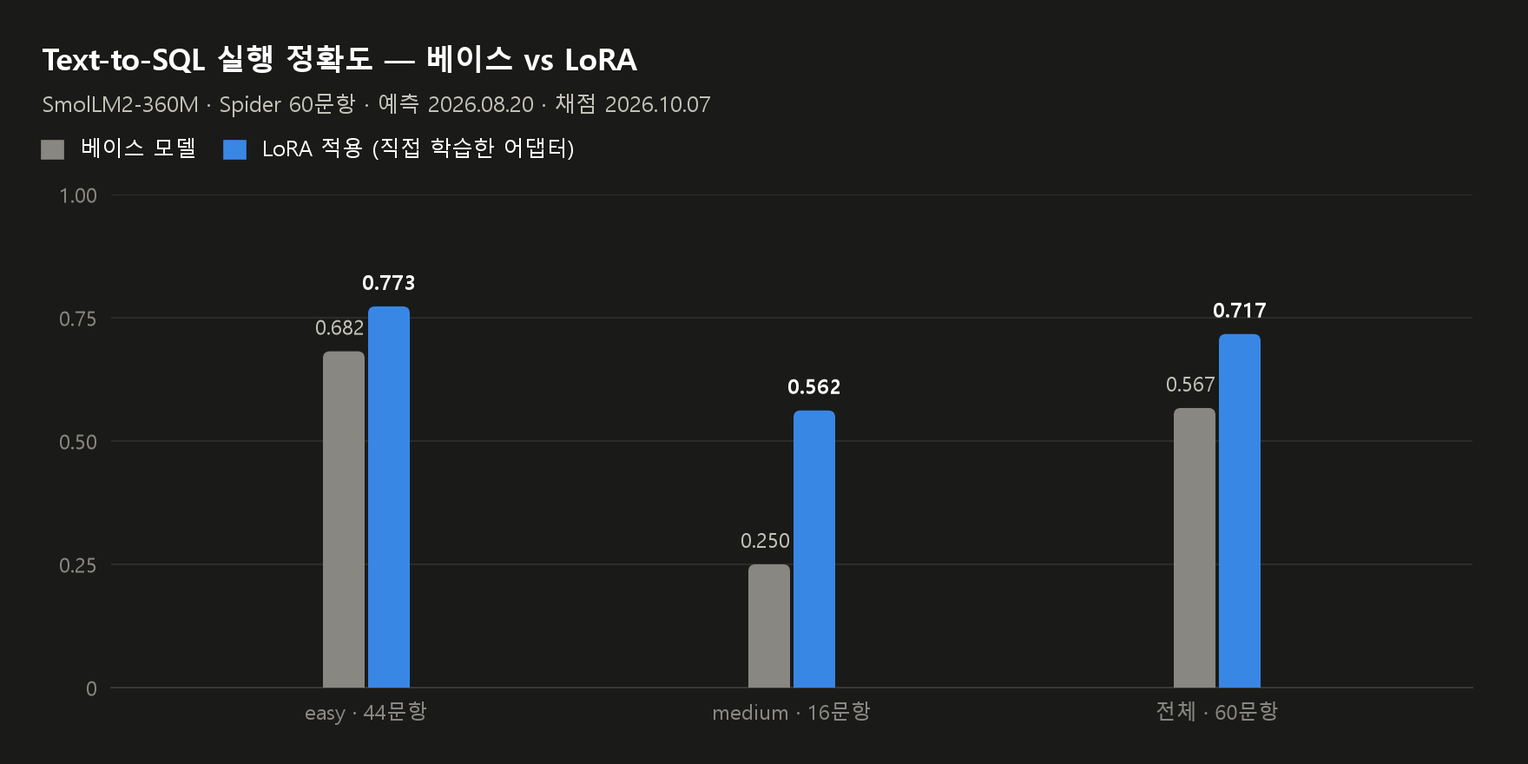
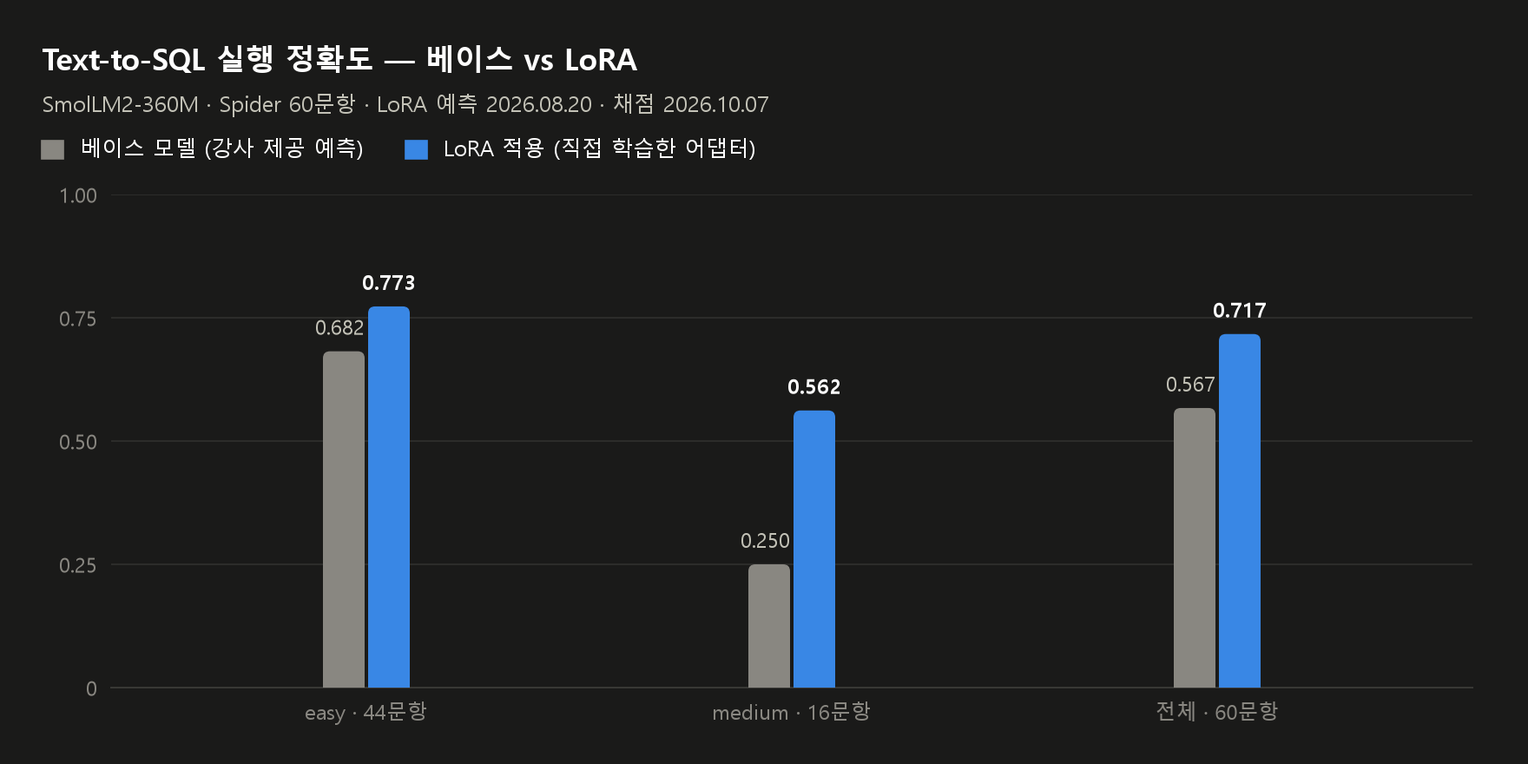
AI 실습 포트폴리오: 1차 검토 반영 — 제 몫 · 숫자 · 표현 바로잡기
- 제 몫: 스토리북 주인공 고정 장치는 기준 앱 몫으로 정정, vLLM 벤치마크의 HF 쪽은
  베이스 모델임을 밝힘, 베이스 예측은 강사 제공 파일임을 표와 차트에 표시
- 숫자: GPU 메모리 MiB 단위, 1회차 98초, MCP 도구 11개, test-suite DB 28개 내역,
  재측정 12.5배 병기, 한눈에 보기에서 조건이 다른 배수(10.7배) 제외
- 제출본: 어댑터는 4. skeleton04에 있고 빠진 것은 예측 · 평가 DB · 로그로 정정
- 구성: 제출본 · 작업 사본 정의, 용어 상자, 돌아보며에 잘한 점 추가 · 순서 정리,
  실행하지 않은 동작은 '구조였다'로

Changed region(s): [[0.125, 0.1841, 0.5, 0.2148], [0.25, 0.1227, 0.5, 0.1534]]

diff --git a/scripts/make_ai_charts.py b/scripts/make_ai_charts.py
@@ -119,8 +119,8 @@ def save(fig, t_name, name):
 def chart_accuracy(t_name):
     t = THEMES[t_name]
     fig, ax = frame(t, "Text-to-SQL 실행 정확도 — 베이스 vs LoRA",
-                    "SmolLM2-360M · Spider 60문항 · 예측 2026.08.20 · 채점 2026.10.07",
-                    [(t["neutral"], "베이스 모델", "bar"), (t["s1"], "LoRA 적용 (직접 학습한 어댑터)", "bar")],
+                    "SmolLM2-360M · Spider 60문항 · LoRA 예측 2026.08.20 · 채점 2026.10.07",
+                    [(t["neutral"], "베이스 모델 (강사 제공 예측)", "bar"), (t["s1"], "LoRA 적용 (직접 학습한 어댑터)", "bar")],
                     right_px=32)
     ax.set_xlim(-0.6, 2.6)
     ax.set_ylim(0, 1.0)

diff --git a/AI_PORTFOLIO.md b/AI_PORTFOLIO.md
@@ -3,7 +3,7 @@
 # 🧪 한동인 · AI 실습 포트폴리오
 
 **삼성청년SW·AI아카데미(SSAFY) 15기 AI 실습 기록**<br/>
-<sub>7월 AI 서비스 실습(앱 3종 · MLOps) · 8월 AI 특화 LLM 실습(라벨 생성 · LoRA · QLoRA · vLLM)</sub>
+<sub>개인 실습 · 7월 AI 서비스 실습(앱 3종 · MLOps) · 8월 AI 특화 LLM 실습(라벨 생성 · LoRA · QLoRA · vLLM)</sub>
 
 <a href="./README.md">← 메인 포트폴리오(프론트엔드)</a> · <a href="#user-content-glance">한눈에 보기</a> · <a href="#user-content-july">7월</a> · <a href="#user-content-august">8월</a> · <a href="#user-content-retro">돌아보며</a>
 
@@ -11,13 +11,14 @@
 
 <br/>
 
-프로젝트에서 AI 파트와 API 계약을 맞추며 일해 온 프론트엔드 개발자가, **모델을 직접 붙이고 · 학습하고 · 채점하고 · 서빙해 본** 기록입니다.
+프로젝트에서 AI 기능을 화면에 붙여 온 프론트엔드 개발자가, **모델을 직접 붙이고, 학습하고, 채점하고, 서빙해 본** 기록입니다.
 
 > **📖 읽는 법**
 > - 모든 실습은 강사가 준 **스켈레톤 위에서** 했습니다. 스켈레톤은 빈칸이 있는 코드가 아니라, 그대로 실행되는 기준 앱과 참고 노트북이었습니다.
-> - **7월 앱 3종**은 기준 앱 위에 확장 과제를 직접 구현했습니다. **8월 노트북**은 코드를 거의 바꾸지 않고, 제 GPU(RTX 4050 Laptop 6 GB)에서 직접 학습 · 추론 · 평가를 돌리고 노트북 밖으로 이어 붙였습니다.
+> - **7월 앱 3종**에서는 기준 앱 위에 확장 과제를 직접 구현했습니다. **8월 노트북**에서는 코드를 거의 바꾸지 않고 제 GPU(RTX 4050 Laptop 6 GB)에서 학습 · 추론 · 평가를 돌렸고, 학습한 어댑터를 다음 실습으로 가져가거나 실패한 셀을 별도 스크립트로 옮겨 이어 갔습니다.
 > - 기능마다 **제 몫과 제공받은 몫을 나눠** 적었습니다.
-> - 숫자는 **제 실행 기록**(노트북 출력 · 체크포인트 · 로그 · MLflow DB)에서만 가져왔습니다. 끝난 뒤 다시 잰 값에는 날짜를 붙였습니다.
+> - 숫자는 **제 실행 기록**(노트북 출력 · 체크포인트 · 로그 · MLflow DB · git 이력)에서만 가져왔습니다. 끝난 뒤 다시 잰 값에는 날짜를 붙였습니다.
+> - **제출본**은 SSAFY GitLab에 낸 저장소이고, **작업 사본**은 제 PC에서 실제로 돌린 폴더입니다. 8월 숫자의 근거 대부분(예측 파일 · 실행 로그 · 제 노트북 출력)은 작업 사본에만 남아 있습니다.
 > - 저장소는 SSAFY GitLab 비공개이며, 요청하시면 공개합니다.
 
 <br/>
@@ -26,18 +27,18 @@
 
 ## 🗂 한눈에 보기
 
-| 실습 | 기간 | 제 몫 | 근거가 된 숫자 |
+| 실습 | 기간 | 제 몫 | 근거 |
 |---|---|---|---|
-| 📄 **AI 문서 아카이브** | 2026.07.06 – 07.08 | OCR 전처리 · 형태소 키워드 · **사진 분기**(EXIF · GPS · YOLO · 지도) 구현 | 기준 앱 대비 +611 / −318줄 |
-| 📚 **AI 스토리북** | 2026.07.06 – 07.08 | **문단 단위 편집**과 고친 문단만 다시 그리기, 주인공 일관성 프롬프트 | 기준 앱 대비 +383 / −221줄 |
+| 📄 **AI 문서 아카이브** | 2026.07.06 – 07.09 | OCR 전처리 · 형태소 키워드 · **사진 분기**(EXIF · GPS · YOLO · 지도) 구현 | 기준 앱 대비 +611 / −318줄 |
+| 📚 **AI 스토리북** | 2026.07.06 – 07.08 | **문단 단위 편집**과 고친 문단만 다시 그리기, 우주 SF 테마 전환 | 기준 앱 대비 +383 / −221줄 |
 | 🛍 **AI 쇼핑 어시스턴트** | 2026.07.06 – 07.08 | 옷 **색상 인식** · 자연어 **예산 필터** · **CLIP 이미지 유사 검색** | 기준 앱 대비 +635 / −276줄 |
 | ⚙ **MLOps** | 2026.07.09 – 07.10 | MLflow 추적 서버로 학습 → 추적 → 레지스트리 등록 실행(코드 변경 없음) | epoch loss **0.19 → 0.045** · 2회 실행 |
 | 🏷 **LLM 라벨 생성 · Judge** | 2026.08.19 | Teacher LLM으로 SQL 라벨 생성, LLM-as-a-Judge 채점, JSON 파서 보강 | Judge 평균 **4.6점** · 실제 스키마와 맞는 쿼리 **4 / 10** |
 | 🎯 **LoRA Text-to-SQL** | 2026.08.19 – 08.20 | 360M 모델 LoRA 학습, 평가 DB 구성, 추론 | 실행 정확도 **0.567 → 0.717** |
-| 🧊 **QLoRA** | 2026.08.19 | 1.7B 모델을 4bit로 6 GB GPU에서 학습 | 학습 **373초** · VRAM **5.9 / 6.1 GB** |
-| 🚀 **vLLM 서빙** | 2026.08.19 | **직접 학습한 어댑터**를 vLLM에 올리고, 어댑터에서 base 모델을 고르는 실행 스크립트 작성 | 생성 처리량 **10.7배** <sub>(비교 조건 주의)</sub> |
+| 🧊 **QLoRA** | 2026.08.19 | 1.7B 모델을 4bit로 6 GB GPU에서 학습 | 학습 **373초** · GPU 메모리 **5,915 / 6,141 MiB** <sub>(장치 전체)</sub> |
+| 🚀 **vLLM 서빙** | 2026.08.19 | **직접 학습한 어댑터**를 vLLM에 올리고, 어댑터에서 베이스 모델을 고르는 실행 스크립트 작성 | Runtime LoRA · Merged **두 방식**으로 서빙 |
 
-<sub>줄 수는 git diff 기준이며, 지운 줄에는 주석 · 디버그 출력 정리가 섞여 있습니다. 같은 주에 받은 MCP 서버 스켈레톤(FastMCP · 메모/할 일 도구 10개)은 실행 기록이 남지 않아 본문에서 뺐습니다.</sub>
+<sub>줄 수는 각 앱 `app.py`의 git diff 기준이며, 더한 줄과 지운 줄 모두 빈 줄 · 주석이 섞여 있습니다(빈 줄 · 공백 변경을 빼면 +553 / +340 / +528줄). 같은 주에 받은 MCP 서버 스켈레톤(FastMCP · 메모 · 할 일 · 통계 도구 11개)은 코드를 바꾸지도, 실행하지도 않아 본문에서 뺐습니다.</sub>
 
 <br/>
 
@@ -47,7 +48,7 @@
 
 ## 🗓 7월 — AI 서비스 실습 <sub>2026.07.06 – 07.10</sub>
 
-기준 앱은 문서 · 이미지 · 텍스트 모델을 붙여 둔 **완성형 앱**이었고, 과제는 그 위에 기능을 더하는 것이었습니다. 앱마다 커밋이 하나뿐이라 중간 과정은 이력에 남지 않았고, **실행 화면 · DB · 결과물도 남기지 않았습니다**(→ [돌아보며](#user-content-retro)). 그래서 아래는 실행 결과가 아니라 **무엇을 왜 그렇게 만들었는지**를 코드로 보여 드립니다.
+기준 앱은 문서 · 이미지 · 텍스트 모델을 붙여 둔 **완성형 앱**이었고, 과제는 그 위에 기능을 더하는 것이었습니다. 앱마다 사실상 한 번에 몰아 커밋해 중간 과정은 이력에 남지 않았고, **실행 화면 · DB · 결과물도 남기지 않았습니다**(→ [돌아보며](#user-content-retro)). 그래서 아래는 실행 결과가 아니라 **무엇을 왜 그렇게 만들었는지**를 코드로 보여 드립니다.
 
 <sub>코드는 저장소에서 발췌해 간추렸고, 주석 일부는 설명을 위해 붙였습니다.</sub>
 
@@ -71,19 +72,20 @@ flowchart LR
   DOC --> DE["본문 + 요약을<br/>임베딩"]
   PE --> DB[("SQLite<br/>위도 · 경도 컬럼")]
   DE --> DB
-  DB --> S["의미 검색 · 키워드 검색<br/>사진 지도 탭"]
+  DB --> S["의미 검색 · 키워드 검색"]
+  DB --> MAP["사진 지도 탭"]
   classDef mine fill:#8250DF14,stroke:#8250DF,stroke-width:2px
-  class PRE,Q,PH,PE,S mine
+  class PRE,Q,PH,PE,MAP mine
 ```
 
-<sub>보라 테두리가 제가 더한 부분입니다. 분류 · OCR · LayoutLMv3 · Donut · 요약 · 임베딩 · 검색의 뼈대는 기준 앱에 있었습니다.</sub>
+<sub>보라 테두리가 제가 더한 부분입니다. 위도 · 경도 컬럼과 형태소 키워드도 제가 더했고, 분류 · OCR · LayoutLMv3 · Donut · 요약 · 임베딩 · 검색의 뼈대는 기준 앱에 있었습니다.</sub>
 
 **제가 만든 것**
 - **사진 분기** — EXIF에 카메라 · 촬영일 · GPS가 있거나 OCR 글자가 10자 미만이면 사진으로 보고, 문서용 모델(LayoutLMv3 · Donut · KoBART)을 건너뜁니다. 대신 EXIF · YOLOv8n 객체 · GPS 역지오코딩 주소로 **요약과 키워드를 만들어 그것을 임베딩**합니다. 사진에는 OCR 본문이 없으니, 이렇게 해야 사진도 의미 검색에 걸립니다.
 - **위치를 데이터로** — GPS를 도분초에서 십진수로 바꿔 DB의 위도 · 경도 컬럼에 저장하고, 저장된 사진을 지도 한 장에 모아 보는 **'사진 지도' 탭**을 더했습니다.
-- **OCR 전처리** — 그레이스케일 → 노이즈 제거 → 대비 개선(CLAHE) → 기울기 보정 → 적응형 이진화. 기울기는 **0.5° ~ 15°일 때만** 돌려 과보정을 막았고, 전처리는 **체크박스로 켜고 끄며 원본과 나란히 비교**할 수 있게 했습니다.
-- **키워드 추출** — 공백으로 자르고 불용어를 빼던 방식을 **형태소 분석(Okt) 명사 + 이어진 명사로 만든 복합명사 + TF-IDF 순위**로 바꾸고, 구조화 필드(날짜 · 금액 등)도 키워드에 넣었습니다.
-- **없는 라이브러리는 기능만 끄기** — konlpy · ultralytics · folium 등을 import에 실패해도 앱은 뜨고, 그 기능만 꺼지게 플래그를 뒀습니다.
+- **OCR 전처리** — 그레이스케일 → 노이즈 제거 → 대비 개선(CLAHE) → 기울기 보정 → 적응형 이진화. 기울기는 **0.5–15°일 때만** 돌려 과보정을 막았고, 전처리는 **체크박스로 켜고 끄며 원본과 나란히 비교**할 수 있게 했습니다.
+- **키워드 추출** — 공백으로 자르고 불용어를 빼던 방식을 **형태소 분석(Okt) 명사 + 이어진 명사로 만든 복합명사 + TF-IDF 순위**로 바꾸고, 기준 앱이 넣던 상호 · 날짜에 더해 LayoutLMv3 구조화 결과의 상호명 · 날짜 · 제목도 키워드에 넣었습니다.
+- **없는 라이브러리는 기능만 끄기** — konlpy · ultralytics · folium 등을 불러오지 못해도 앱은 뜨고, 그 기능만 꺼지게 플래그를 뒀습니다.
 
 <details>
 <summary><b>코드 · 사진은 만든 요약과 키워드로 임베딩</b></summary>
@@ -111,8 +113,8 @@ if is_photo(image, doc_type, content):
 **아쉬운 점**
 - **키워드 TF-IDF가 사실상 TF였습니다.** 문서 한 장으로 fit하니 IDF가 상수가 됩니다. 주석에 적어 두고도 그대로 뒀습니다.
 - **휴대폰으로 찍은 영수증도 사진으로 갈 수 있습니다.** 카메라 EXIF만 있어도 사진으로 판정하기 때문입니다.
-- **새 의존성을 requirements.txt에 적지 않았습니다.** 다른 PC에서는 '기능만 끄기' 플래그 때문에 사진 분기 · 지도가 **조용히 꺼집니다.** 실패를 막으려고 둔 장치가 실패를 가린 셈입니다.
-- 요약 모델을 요약으로 파인튜닝되지 않은 사전학습 모델(`gogamza/kobart-base-v2`)로 바꿨는데, **바꾼 이유를 남기지 않았습니다.** 모폴로지 연산은 1×1 커널이라 효과가 없었습니다.
+- **새 의존성을 requirements.txt에 적지 않았습니다.** 다른 PC에서는 EXIF · GPS · 객체 정보가 **경고 없이 빠져** 사진이 '일반 사진'으로만 저장되고, 키워드도 공백 분리로 조용히 돌아갑니다(지도 탭만 설치 안내를 띄움). 실패를 막으려고 둔 장치가 실패를 가린 셈입니다.
+- 요약 모델을, 요약 학습을 거치지 않은 사전학습 모델(`gogamza/kobart-base-v2`)로 바꿨는데 **바꾼 이유를 남기지 않았습니다.**
 
 `Streamlit` `PaddleOCR` `DiT` `LayoutLMv3` `Donut` `KoBART` `ko-sroberta` `YOLOv8n` `OpenCV` `konlpy` `folium` `SQLModel`
 
@@ -122,13 +124,13 @@ if is_photo(image, doc_type, content):
 
 ### 📚 AI 스토리북 — 고친 문단만 다시 그리는 동화책 만들기
 
-> **다섯 장의 그림에 같은 주인공이 나오게 하고, 글을 고치면 그 문단의 그림만 다시 그렸습니다.**
+> **이야기를 문단 단위로 나눠, 글을 고친 문단의 그림만 다시 그리게 했습니다.**
 
 한국어 LLM이 다섯 문단짜리 이야기를 쓰고, 문단마다 Stable Diffusion으로 삽화를 그려 PDF로 묶는 Gradio 앱입니다. 저는 테마를 **우주 SF**로 바꾸고, **문단(챕터) 단위 편집**을 만들었습니다.
 
 **제가 만든 것**
-- **문단 단위 저장과 편집** — 이야기를 통째로만 저장하던 구조에 `StoryChapter` 테이블을 더해 문단마다 본문 · 그림 경로 · **'다시 그려야 함' 플래그**를 두었습니다. 문단을 고치면 플래그만 켜고, 스토리북을 만들 때 **플래그가 켜졌거나 그림 파일이 없는 문단만** 다시 그립니다. 문단마다 편집 칸과 '이 문단 다시 그리기' 버튼도 붙였습니다.
-- **다섯 장에 같은 주인공** — 글과 그림이 같은 사람을 가리키게 양쪽을 맞췄습니다. LLM에는 "주인공은 '탐험가' 또는 '그'로만, 우주복을 입은 젊은 탐험가"라는 규칙을, 그림 프롬프트에는 고정 캐릭터 문구(`young astronaut explorer wearing white space suit…`)와 화풍 접미사, **문단별 고정 seed**를 넣었습니다.
+- **문단 단위 저장과 편집** — 이야기를 통째로만 저장하던 구조에 `StoryChapter` 테이블을 더해 문단마다 본문 · 그림 경로 · **'다시 그려야 함' 플래그**를 두었습니다. 문단마다 편집 칸과 '수정 & 이미지 재생성' 버튼을 붙여 **고친 문단의 그림만** 그 자리에서 다시 그립니다. 스토리북을 만들 때는 플래그가 켜졌거나 그림 파일이 없는 문단만 그리고, 나머지는 저장된 그림을 씁니다.
+- **우주 SF로 테마 전환** — 기준 앱에 있던 주인공 고정 장치(LLM 지칭 규칙 · 고정 캐릭터 문구 · 문단별 고정 seed)를 우주 탐험가(`young astronaut explorer wearing white space suit…`)로 바꾸고, 그림 프롬프트에 **화풍 접미사**(`sci-fi concept art, …`)와 네거티브 프롬프트를 더했습니다.
 - **기준 앱 버그 세 개** — ① 장면 분석에 문단 번호를 넘기지 않아 기본 장면이 늘 1문단용이던 것, ② 캐시 키가 글만 봐서 문단이 달라도 같은 그림이 나올 수 있던 것, ③ 캐시 기록은 있는데 파일이 지워졌을 때를 확인하지 않던 것을 고쳤습니다.
 
 <details>
@@ -156,8 +158,8 @@ def create_storybook(story_id):
 
 **아쉬운 점**
 - **처음 만들 때는 캐시를 늘 건너뜁니다.** 새 문단은 플래그가 켜진 채 저장되고, 그 플래그를 `force`로 넘기기 때문입니다. '고친 문단만'은 지켰지만 '같은 그림은 다시 안 그리기'는 첫 생성에서 깨졌습니다.
-- **한글 폰트가 없으면 Helvetica로 넘어가 PDF의 한글이 깨집니다.** 폴백이 오류를 막는 대신 깨진 결과를 냈습니다.
-- 캐릭터 LoRA 과제는 **불러오는 자리만 만들고 가중치는 학습하지 못했습니다**(경로 `None`). 없는 문단의 '다시 그리기' 버튼을 눌러도 "완료"가 떴습니다.
+- **한글 폰트가 없으면 Helvetica로 넘어가 PDF의 한글이 깨집니다.** 폴백이 오류를 막는 대신 깨진 결과를 내는 구조였습니다.
+- 캐릭터 LoRA 과제는 **불러오는 자리만 만들고 가중치는 학습하지 못했습니다**(경로 `None`).
 
 `Gradio` `Bllossom 5B` `diffusers` `DreamShaper 8` `ReportLab` `SQLModel`
 
@@ -169,11 +171,11 @@ def create_storybook(story_id):
 
 > **불러오기만 하고 쓰지 않던 CLIP을 검색에 연결하고, "5만원 이하"를 알아듣게 했습니다.**
 
-패션 사진에서 옷을 탐지(DeepFashion2 YOLO)해 네이버 쇼핑에서 찾고, 텍스트 벡터 DB(ChromaDB) RAG와 한국어 LLM 대화로 추천하는 Gradio 앱입니다.
+패션 사진에서 옷을 탐지(DeepFashion2 YOLO)해 네이버 쇼핑에서 찾고, 벡터 DB(ChromaDB)에서 찾은 상품 정보를 한국어 LLM 답변에 넣어(RAG) 추천하는 Gradio 앱입니다.
 
 **제가 만든 것**
 - **CLIP 이미지 유사 검색** — 기준 앱은 CLIP 모델을 불러오고 특징 추출 함수를 정의만 했을 뿐 **한 번도 호출하지 않았습니다.** 상품 이미지를 받아 CLIP 벡터로 저장하고, 올린 사진과 비슷한 상품을 찾아 텍스트 검색 결과와 합칩니다. 텍스트 임베딩(768차원)과 CLIP(512차원)은 차원이 달라 **컬렉션을 따로 두고 코사인 거리**를 썼습니다.
-- **옷 색상 → 검색어** — 탐지한 옷 영역을 50×50으로 줄여 k-means(k=3)로 가장 큰 색 덩어리를 고르고, HSV로 바꿔 **무채색(검정 · 흰 · 회색)을 먼저 판정**한 뒤 색조 구간으로 이름을 붙입니다. 검색어가 '셔츠'에서 '빨간 셔츠'가 됩니다.
+- **옷 색상 → 검색어** — 탐지한 옷 영역을 50×50으로 줄여 k-means(k=3)로 가장 큰 색 덩어리를 고르고, HSV로 바꿔 **무채색(검정 · 흰색 · 회색)을 먼저 판정**한 뒤 색조 구간으로 이름을 붙입니다. 검색어 앞에 색 이름이 붙어 '빨간 short_sleeved_shirt'처럼 됩니다(옷 종류는 모델의 영어 클래스명 그대로).
 - **자연어 예산 필터** — "5만원 이하", "3~5만원", "10만원 이상", "더 저렴한 거"를 정규식으로 읽고 가격순으로 거릅니다. "더 저렴한 거"는 **직전 검색 결과의 평균가**를 기준으로 삼아, 대화의 앞뒤가 이어지게 했습니다.
 - **의도 나누기와 기준 앱 버그** — "비슷한 거"류 요청은 LLM을 부르지 않고 이미지 검색으로 안내하고, 빈 메시지에서 출력 두 개 중 하나만 돌려주던 버그를 고쳤습니다.
 
@@ -208,7 +210,7 @@ def save_products_with_clip_vectors(products):
       ...
       return filtered if filtered else products   # 비면 원본 — 그런데 안내문은 그대로
   ```
-- **예산 파서가 지원한다고 적은 말을 못 읽었습니다.** 함수를 떼어 실행해 보니(2026.10.07) "3만원에서 5만원" · "3만원부터 5만원까지"가 범위가 아니라 **"3만원 이하"**로 읽혔습니다. 범위 정규식의 `[~부터에서\-]`가 문자 하나짜리 집합이라 '에서' · '부터'를 한 단어로 잡지 못했고, "3개 이하로 보여줘"도 1,000 미만 숫자를 만원 단위로 보는 규칙 때문에 3만원 이하가 됐습니다. 지원 문장을 테스트로 남겼다면 바로 잡혔을 일입니다.
+- **예산 파서가 지원한다고 적은 말을 못 읽었습니다.** 함수를 떼어 실행해 보니(2026.10.07) "3만원에서 5만원" · "3만원부터 5만원까지"가 범위가 아니라 **"3만원 이하"**로 읽혔습니다. 범위 정규식 `[~부터에서\-]`는 한 글자씩만 맞추는 문자 집합이라 '에서' · '부터'를 잡지 못했습니다. "3개 이하로 보여줘"도 1,000 미만 숫자를 만원 단위로 보는 규칙 때문에 3만원 이하가 됐습니다. 지원 문장을 테스트로 남겼다면 바로 잡혔을 일입니다.
 - 이미지 결과는 상품명, 텍스트 결과는 상품 ID로 중복을 판별해 **같은 상품이 두 번 나올 수 있었고**, 탐지 경로에서 상품 이미지를 동기로 내려받아(최대 10개 × 5초) 느려질 수 있었습니다.
 
 `Gradio` `YOLOv8 (DeepFashion2)` `CLIP ViT-B/32` `ChromaDB` `LangChain` `Bllossom 3B` `ko-sroberta` `OpenCV` `네이버 쇼핑 API`
@@ -221,19 +223,19 @@ def save_products_with_clip_vectors(products):
 
 > **MLflow 추적 서버를 띄워 학습 → 추적 → 레지스트리 등록을 두 번 돌렸습니다.**
 
-강사가 준 MLOps 스켈레톤(MLflow · BentoML · DVC · Prometheus/Grafana · docker-compose · EC2 배포 스크립트)에서 **코드는 바꾸지 않았고**, 로컬 MLflow 추적 서버(SQLite 백엔드)를 띄워 MNIST CNN을 GPU로 학습하고 모델 레지스트리에 등록했습니다. 아래는 그 `mlflow.db`를 읽은 값입니다.
+강사가 준 MLOps 스켈레톤(MLflow · BentoML · DVC · Prometheus · Grafana · docker-compose · EC2 배포 스크립트)에서 **코드는 바꾸지 않았고**, 로컬 MLflow 추적 서버(SQLite 백엔드)를 띄워 MNIST CNN을 GPU로 학습하고 모델 레지스트리에 등록했습니다. 아래는 그 `mlflow.db`를 읽은 값입니다.
 
 <picture>
   <source media="(prefers-color-scheme: dark)" srcset="./assets/ai-mlflow-loss-dark.png"/>
   <img src="./assets/ai-mlflow-loss.png" alt="MNIST CNN epoch loss. MLflow에 기록된 두 번의 실행이 0.19에서 0.045 근처까지 거의 겹쳐 내려간다"/>
 </picture>
 
-| 실행 | 시각 | 소요 | epoch loss (1 → 5 에폭) | 등록 버전 |
+| 실행 | 시각 | 소요 | epoch loss (1 → 5에폭) | 등록 버전 |
 |---|---|---|---|---|
-| 1회차 | 07.09 16:41 | 97초 | 0.189 → 0.079 → 0.063 → 0.050 → **0.046** | v1 · v2 |
+| 1회차 | 07.09 16:41 | 98초 | 0.189 → 0.079 → 0.063 → 0.050 → **0.046** | v1 · v2 |
 | 2회차 | 07.10 14:08 | 88초 | 0.190 → 0.082 → 0.066 → 0.053 → **0.045** | v3 · v4 · `production` |
 
-<sub>ConvNet(Conv 32 → Conv 64 → FC 128 → FC 10) · Adam lr 0.001 · batch 64 · 5 에폭 · CUDA. 학습 한 번에 버전이 두 개씩 생기는 건 스켈레톤 설계(`log_model`의 자동 등록 + `register_model`)입니다. 실행 태그에 그 시점의 git 커밋(6e856b8, f97d054)이 남아, 어떤 코드로 학습했는지 거슬러 갈 수 있습니다.</sub>
+<sub>ConvNet(Conv 32 → Conv 64 → FC 128 → FC 10) · Adam lr 0.001 · batch 64 · 5에폭 · CUDA. 학습 한 번에 버전이 두 개씩 생기는 건 스켈레톤 설계(`log_model`의 자동 등록 + `register_model`)입니다. 실행 태그에 그 시점의 git 커밋(6e856b8, f97d054)이 남아, 어떤 코드로 학습했는지 거슬러 갈 수 있습니다.</sub>
 
 **배운 것과 아쉬운 점**
 - **loss만 남고 정확도는 없습니다.** 스켈레톤이 정확도를 기록하지 않았고, 저도 테스트셋 평가를 더하지 않았습니다. `train_metrics.json`의 정확도 0.92는 코드에 박힌 상수라 쓰지 않았습니다.
@@ -250,14 +252,16 @@ def save_products_with_clip_vectors(products):
 
 ## 🗓 8월 — AI 특화 LLM 실습 <sub>2026.08.18 – 08.21</sub>
 
-노트북은 빈칸 없는 **참고 코드**였고, 강사가 2026.02에 돌린 출력이 들어 있었습니다. 제 몫은 그것을 **제 GPU(RTX 4050 Laptop 6 GB)에서 직접 돌리고**, 평가 환경을 꾸리고, **직접 학습한 어댑터를 다음 실습으로 가져가 서빙까지** 이은 것입니다.
+노트북은 빈칸 없는 **참고 코드**였고, 강사가 2026.02에 돌린 출력이 들어 있었습니다. 제 몫은 그것을 **제 GPU에서 직접 돌리고**, 평가 환경을 꾸리고, **직접 학습한 어댑터를 다음 실습으로 가져가 서빙까지** 이은 것입니다.
+
+> **용어** — **LoRA**는 모델의 원래 가중치는 그대로 두고, 덧붙인 작은 행렬(**어댑터**)만 학습하는 방법입니다. **QLoRA**는 원래 가중치를 4bit로 줄여 올린 채 LoRA를 하는 방법입니다. **Spider**는 자연어 질문을 SQL로 바꾸는 벤치마크이고, **실행 정확도**는 예측 SQL과 정답 SQL을 DB에서 실제로 돌려 결과가 같은 비율입니다.
 
 ```mermaid
 flowchart LR
   subgraph S1["① 라벨 만들기"]
-    T["Solar pro3<br/>Teacher"] --> L["SQL 라벨 10건"] --> J["같은 모델이<br/>Judge 1~5점"]
+    T["Solar pro3<br/>Teacher"] --> L["SQL 라벨 10건"] --> J["같은 모델이<br/>Judge 1–5점"]
   end
-  D["Spider 학습 데이터<br/>강사 제공 7,000건"] -->|"앞 400건 × 4 에폭"| A["② SmolLM2-360M<br/>LoRA r=32"]
+  D["Spider 학습 데이터<br/>강사 제공 7,000건"] -->|"앞 400건 × 4에폭"| A["② SmolLM2-360M<br/>LoRA r=32"]
   A --> AD["내 어댑터<br/>checkpoint-100"]
   AD -->|"60문항 채점"| EV["실행 정확도<br/>0.567 → 0.717"]
   D -->|"같은 400건"| Q["③ SmolLM2-1.7B<br/>4bit QLoRA"]
@@ -274,11 +278,11 @@ flowchart LR
 
 > **Judge 평균은 4.6점이었지만, 실제 스키마와 맞는 쿼리는 10건 중 4건이었습니다.**
 
-큰 모델(Upstage `solar-pro3`)을 **Teacher**로 써서 Spider 질문 10건에 SQL 라벨과 풀이를 만들고, 같은 모델을 **Judge**로 써서 1~5점과 비평을 매겼습니다. Judge 출력은 strict JSON schema · temperature 0 · seed 42로 고정했습니다.
+큰 모델(Upstage `solar-pro3`)을 **Teacher**로 써서 Spider 질문 10건에 SQL 라벨과 풀이를 만들고, 같은 모델을 **Judge**로 써서 1–5점과 비평을 매겼습니다. Judge 출력은 기준 코드에서 strict JSON schema · temperature 0 · seed 42로 고정돼 있었습니다.
 
 **제가 만든 것**
-- **흔들리는 LLM 출력을 견디는 JSON 파서** — 기준 코드는 ```` ```json ```` 표시를 찾는 방식이라, 코드 블록 없이 JSON만 오면 예외가 났습니다. 코드 블록(언어 표시 유무 무관)을 정규식으로 먼저 찾고, 없으면 첫 `{`부터 마지막 `}`까지 잘라 읽고, 그래도 없으면 원문을 담아 실패하게 바꿨습니다.
-- 작업 사본에서는 프롬프트 앞에 "한국어로"를 붙여 **출력 언어를 고정**해 봤습니다. 제출본의 같은 셀은 추론 모델이 영어 독백만 남기고 답을 맺지 못한 출력입니다.
+- **흔들리는 LLM 출력을 견디는 JSON 파서** — 실습 앞부분의 JSON 응답 예제에서, 기준 코드는 ```` ```json ```` 표시를 찾는 방식이라 코드 블록 없이 JSON만 오면 예외가 나는 구조였습니다. 코드 블록(언어 표시 유무 무관)을 정규식으로 먼저 찾고, 없으면 첫 `{`부터 마지막 `}`까지 잘라 읽고, 그래도 없으면 원문을 담아 실패하게 바꿨습니다. 라벨 생성 · Judge 단계는 `response_format`으로 JSON을 받아 이 파서를 거치지 않습니다.
+- 제출본의 한 셀은 추론 모델이 영어 독백만 남기고 답을 맺지 못한 출력입니다. 작업 사본에서는 프롬프트 앞에 "한국어로"를 붙여 **출력 언어를 고정**했고, 한국어 답을 받았습니다.
 
 <details>
 <summary><b>코드 · 코드 블록 → 중괄호 구간 → 실패 순으로 읽기</b></summary>
@@ -324,7 +328,7 @@ def json_parsing(output_text: str) -> dict:
 
 `HuggingFaceTB/SmolLM2-360M-Instruct`에 LoRA를 붙여 자연어 질문을 SQL로 바꾸도록 학습하고, Spider test-suite로 **실행 정확도**(예측 SQL과 정답 SQL을 DB에서 실제로 돌려 결과가 같은지)를 쟀습니다.
 
-**제가 한 것** — 코드와 하이퍼파라미터는 노트북 그대로 두고, ① 평가용 **Spider DB 28개를 받아 평가 경로에 배치**, ② LoRA 학습, ③ `inference.py`로 60문항 추론을 돌렸습니다. 이 어댑터를 ④ vLLM 실습에 그대로 가져갔습니다.
+**제가 한 것** — 코드와 하이퍼파라미터는 노트북 그대로 두고, 평가용 **test-suite DB 28개(Spider 20 · 기타 8)를 받아 평가 경로에 두고**, LoRA를 학습하고, `inference.py`로 60문항을 추론했습니다. 이 어댑터를 ④ vLLM 실습에 그대로 가져갔습니다.
 
 <picture>
   <source media="(prefers-color-scheme: dark)" srcset="./assets/ai-text2sql-accuracy-dark.png"/>
@@ -333,10 +337,10 @@ def json_parsing(output_text: str) -> dict:
 
 | 실행 정확도 (60문항) | easy (44) | medium (16) | 전체 |
 |---|---|---|---|
-| 베이스 SmolLM2-360M | 0.682 | 0.250 | **0.567** (34문항) |
-| **+ LoRA (제 어댑터)** | **0.773** | **0.562** | **0.717** (43문항) |
+| 베이스 SmolLM2-360M <sub>(강사 제공 예측)</sub> | 0.682 | 0.250 | **0.567** (34문항) |
+| **LoRA 적용 (제 어댑터)** | **0.773** | **0.562** | **0.717** (43문항) |
 
-<sub>예측은 08.20에 만들었고, 채점은 포트폴리오를 정리하며(2026.10.07) 같은 평가 스크립트(`evaluation.py --etype exec --plug_value`)로 다시 돌렸습니다. 당시에는 결과를 기록으로 남기지 않았습니다. 같은 방법으로 잰 베이스 값 0.567이 강사 노트북에 남은 값과 같아, 평가 환경이 맞음을 확인했습니다. LoRA 학습 파라미터 17,367,040개는 베이스 361,821,120개의 4.8%입니다.</sub>
+<sub>예측은 08.20에 만들었고, 채점은 포트폴리오를 정리하며(2026.10.07) 같은 평가 스크립트(Spider test-suite의 실행 정확도 모드)로 다시 돌렸습니다. 당시에는 결과를 기록으로 남기지 않았습니다. 베이스 쪽 예측은 강사가 준 `base_model_predict.txt`를 그대로 썼고, 제가 배치한 DB로 다시 채점한 값이 강사 노트북의 0.567과 같아 평가 환경이 맞음을 확인했습니다. LoRA 학습 파라미터 17,367,040개는 베이스 361,821,120개의 4.8%입니다.</sub>
 
 <details>
 <summary><b>학습 설정과 loss</b></summary>
@@ -345,7 +349,7 @@ def json_parsing(output_text: str) -> dict:
 |---|---|
 | LoRA | r=32 · alpha=64 · dropout 0 · q/k/v/o/gate/up/down_proj 7곳 |
 | 학습 | 100 step · batch 4 × 누적 4(유효 16) · lr 2e-5 linear · bf16 · seed 42 |
-| 데이터 | 7,000건 중 앞 400건을 4 에폭 · 프롬프트 부분은 라벨 −100으로 가려 답(SQL)만 학습 |
+| 데이터 | 7,000건 중 앞 400건을 4에폭 · 프롬프트 부분은 라벨 −100으로 가려 답(SQL)만 학습 |
 
 | step | 1 | 25 | 50 | 75 | 100 |
 |---|---|---|---|---|---|
@@ -373,7 +377,7 @@ LoRA  : SELECT country FROM singer WHERE age > 20
 **아쉬운 점**
 - **프롬프트에 스키마가 없어** 모델이 테이블 이름을 추측합니다. 전체로는 나아졌지만 베이스가 맞히고 LoRA가 틀린 문항도 있습니다. 맞던 `airports`를 없는 `airport`로 바꾸거나(#10), 물어본 `birth_date` 컬럼을 빠뜨렸습니다(#54).
 - 7,000건 중 400건만, 보수적인 학습률(2e-5)로 100 step 학습했습니다. 평가셋도 60문항이라 0.15 차이를 일반화하기엔 작습니다.
-- **제출본만 보면 제 결과가 보이지 않습니다.** 제출본의 `predict.txt`는 베이스 예측과 같은 파일이고, 어댑터는 `.gitignore`(`outputs/`)에 걸려 빠졌습니다.
+- **제출본만으로는 다시 채점할 수 없습니다.** 어댑터는 ④ 실습 폴더(`4. skeleton04`)에 들어갔지만, LoRA 예측과 채점 결과는 없습니다. 제출본의 `predict.txt`는 베이스 예측과 같은 파일이고, 평가 DB와 실행 로그는 `.gitignore`로 빠졌습니다.
 
 `Transformers` `PEFT (LoRA)` `TRL SFTTrainer` `Spider test-suite`
 
@@ -385,7 +389,9 @@ LoRA  : SELECT country FROM singer WHERE age > 20
 
 > **4.7배 큰 모델을 4bit로 줄여, 같은 6 GB GPU에서 같은 데이터로 학습을 끝냈습니다.**
 
-`HuggingFaceTB/SmolLM2-1.7B-Instruct`를 bitsandbytes로 **4bit(NF4 + 이중 양자화, 계산은 bf16)** 불러와 LoRA(r=16 · alpha=32, 학습 파라미터 18,087,936개)를 붙였습니다. 데이터와 step 수는 ②와 같습니다(400건 × 4 에폭, 100 step).
+`HuggingFaceTB/SmolLM2-1.7B-Instruct`를 bitsandbytes로 **4bit(NF4 + 이중 양자화, 계산은 bf16)** 불러와 LoRA(r=16 · alpha=32, 학습 파라미터 18,087,936개)를 붙였습니다. 데이터와 step 수는 ②와 같습니다(400건 × 4에폭, 100 step).
+
+**제가 한 것** — 노트북 코드와 설정은 그대로 두고, 제 GPU에서 학습을 돌려 메모리 · 시간 · loss를 기록했습니다.
 
 | 항목 | 값 |
 |---|---|
@@ -403,10 +409,10 @@ LoRA  : SELECT country FROM singer WHERE age > 20
   <img src="./assets/ai-training-loss.png" alt="학습 loss 비교. 100 step 동안 10 step 이동 평균이 LoRA 360M은 1.23, QLoRA 1.7B는 1.00까지 내려간다. 학습 지표이며 정확도가 아니다"/>
 </picture>
 
-<sub>두 어댑터의 `trainer_state.json`(step마다 기록된 loss 100개)에서 그렸습니다. 학습 loss는 정확도가 아니어서, QLoRA가 SQL을 더 잘 맞히는지는 이 그림으로 말할 수 없습니다.</sub>
+<sub>두 어댑터의 `trainer_state.json`(step마다 기록된 loss 100개)에서 그렸습니다.</sub>
 
 **아쉬운 점 — 학습은 끝냈는데 채점을 못 했습니다**
-- 평가 DB 폴더에 **`.sqlite` 파일이 하나도 없어**(빈 폴더만 한 단계 더 중첩된 채) 베이스 모델 평가가 `unable to open database file`로 실패했습니다. ②에서는 DB를 배치해 놓고, ③에서는 그 과정을 빠뜨렸습니다. 바로잡지 않은 채 학습으로 넘어가, **학습 후 추론과 채점도 하지 않았습니다.**
+- 평가 DB 폴더에 **`.sqlite` 파일이 하나도 없어**(DB 폴더 안에 빈 폴더만 한 겹 더 들어 있었습니다) 베이스 모델 평가가 `unable to open database file`로 실패했습니다. ②에서는 DB를 배치해 놓고, ③에서는 그 과정을 빠뜨렸습니다. 바로잡지 않은 채 학습으로 넘어가, **학습 후 60문항 추론(`inference.py`)과 채점도 하지 않았습니다.**
 - 그래서 학습 loss가 ②보다 낮게 끝났어도(마지막 10 step 평균 0.997 대 1.231), **SQL을 더 잘 맞히는지는 모릅니다.** 단건 추론 예시는 존재하지 않는 `company` 테이블을 쓴 오답이었습니다.
 - 양자화 전 메모리는 같은 조건에서 재지 않았습니다. "fp16이면 약 4 GB"는 노트북 설명의 추정이라 쓰지 않았습니다.
 
@@ -420,14 +426,14 @@ LoRA  : SELECT country FROM singer WHERE age > 20
 
 > **②에서 직접 학습한 어댑터를 vLLM에 올리고, 노트북에서 메모리 부족으로 실패하자 실행 스크립트로 따로 띄웠습니다.**
 
-WSL의 vLLM 0.13.0에서 PagedAttention · KV 캐시를 실습하고, LoRA를 **Runtime LoRA**(요청마다 어댑터를 얹음)와 **Merged**(어댑터를 합친 새 모델) 두 방식으로 띄운 뒤 HF Transformers와 생성 속도를 비교했습니다.
+WSL의 vLLM(LLM 추론 서버 엔진) 0.13.0에서 PagedAttention · KV 캐시를 실습하고, LoRA를 **Runtime LoRA**(요청마다 어댑터를 얹음)와 **Merged**(어댑터를 합친 새 모델) 두 방식으로 띄운 뒤 HF Transformers와 생성 속도를 비교했습니다.
 
 **제가 한 것**
-- **강사 어댑터 대신 제 어댑터** — 실습 폴더의 어댑터를 ②에서 학습한 `checkpoint-100`으로 바꿔 넣었습니다(파일 해시로 확인). 그래서 아래 LoRA · 합치기 · 벤치마크는 모두 제 어댑터로 돈 결과입니다.
-- **어댑터만 주면 base 모델을 알아서 고르는 스크립트** — 노트북에서 어댑터 자동 로드 셀이 **GPU 메모리 부족**(여유 4.35 GiB < 요구 4.5 GiB)으로 실패했습니다. 같은 노트북에서 앞서 띄운 vLLM 엔진들이 GPU를 쓰던 상태였습니다. 그래서 노트북 밖의 별도 프로세스(`run_lora.py`)로 옮기고 `max_model_len`을 2048로 줄여 띄웠습니다. 어댑터 가중치 헤더에서 **LoRA rank와 hidden size를 읽어** base 모델(135M · 360M · 1.7B)을 고르고, `max_lora_rank`도 어댑터에 맞춥니다.
+- **강사 어댑터 대신 제 어댑터** — 실습 폴더의 어댑터를 ②에서 학습한 `checkpoint-100`으로 바꿔 넣었습니다(파일 해시로 확인). 그래서 Runtime LoRA와 합치기는 제 어댑터로 돌렸습니다. 아래 벤치마크는 vLLM 쪽만 제 어댑터를 합친 모델이고, HF 쪽은 어댑터 없는 베이스 모델입니다.
+- **어댑터에 맞춰 베이스 모델을 고르는 스크립트** — 노트북에서 어댑터 자동 로드 셀이 **GPU 메모리 부족**(여유 4.35 GiB < 요구 4.5 GiB)으로 실패했습니다. 그래서 노트북 밖의 별도 프로세스(`run_lora.py`)로 옮기고 `max_model_len`을 2048로 줄여 띄웠습니다. 어댑터 가중치 헤더에서 **LoRA rank와 hidden size를 읽어** 베이스 모델(135M · 360M · 1.7B)을 고르고, `max_lora_rank`도 어댑터에 맞춥니다. 실행 확인은 360M 어댑터로 했습니다.
 
 <details>
-<summary><b>코드 · 어댑터 헤더에서 rank와 base 모델 판별</b></summary>
+<summary><b>코드 · 어댑터 헤더에서 rank와 베이스 모델 판별</b></summary>
 
 ```python
 # 4. skeleton04/run_lora.py (발췌)
@@ -462,11 +468,11 @@ SELECT name FROM employees WHERE age > 30
 | 전체 시간 | 4.58초 | **0.51초** (9.0배) |
 | 첫 토큰까지 | 109.9 ms | 156.5 ms |
 
-<sub>vLLM의 KV 캐시는 3.33 GiB(87,168 토큰)였습니다. **비교 조건이 같지 않습니다.** 노트북의 측정 코드를 그대로 썼는데, HF는 프롬프트를 하나씩 처리하고 vLLM은 다섯 개를 한 번에 처리해 배치 효과가 섞여 있습니다. '첫 토큰'도 HF는 forward 한 번, vLLM은 프롬프트 하나를 끝까지 생성한 시간이라 같은 것을 재지 않았습니다. 메모리는 vLLM 엔진이 떠 있는 채로 장치 전체를 재서 비교에서 뺐습니다. 반복 없이 한 번만 잰 값입니다.</sub>
+<sub>vLLM의 KV 캐시는 3.33 GiB(87,168 토큰)였습니다. **비교 조건이 같지 않습니다.** 노트북의 측정 코드를 그대로 썼는데, HF는 프롬프트를 하나씩 처리하고 vLLM은 다섯 개를 한 번에 처리해 배치 효과가 섞여 있습니다. 모델도 HF는 어댑터 없는 베이스(fp16), vLLM은 제 어댑터를 합친 모델(bf16)이라 다릅니다. '첫 토큰'도 HF는 forward 한 번, vLLM은 프롬프트 하나를 끝까지 생성한 시간이라 같은 것을 재지 않았습니다. 메모리는 vLLM 엔진이 떠 있는 채로 장치 전체를 재서 비교에서 뺐습니다. 같은 날(16:21) 다시 돌린 실행에서는 12.5배가 나와, 두 번 사이 편차도 컸습니다.</sub>
 
 **아쉬운 점**
 - 벤치마크 수치를 받아 들고 **측정 조건이 같은지 확인하지 않았습니다.** 같은 배치 크기 · 같은 정밀도 · 워밍업 후 반복 측정으로 다시 재야 "몇 배"라고 말할 수 있습니다.
-- 노트북의 실패 셀을 다시 돌리지 않아, 제출본에 **실패 출력이 그대로** 남았습니다.
+- 실패한 셀을 고치지 않아(16:22에 다시 돌려도 같은 오류), 제출본에 **실패 출력이 그대로** 남았습니다.
 
 `vLLM 0.13` `PagedAttention` `LoRARequest` `PEFT merge_and_unload` `WSL`
 
@@ -479,22 +485,23 @@ SELECT name FROM employees WHERE age > 30
 ## 📈 돌아보며 — 메인 포트폴리오의 원칙에 비춰
 
 <details>
-<summary>🔎 <b>사실만 말하기</b> — 폴백이 실패를 가렸다</summary>
+<summary>✅ <b>잘한 점</b> — 받은 코드를 끝까지 이어 붙였다</summary>
 <br/>
 
-- **🛍 쇼핑** — 예산에 맞는 상품이 없을 때 거르기 전 목록을 돌려주면서 "N원 이하로 정리했다"고 말했습니다. 잡싸피에서 음성 분석 실패를 예시 피드백으로 가린 것과 같은 모양입니다.
-- **📚 스토리북 · 📄 문서 아카이브** — 한글 폰트가 없으면 Helvetica로, 라이브러리가 없으면 기능 끄기로 넘어갔습니다. 앱은 멈추지 않았지만 **깨진 PDF와 조용히 사라진 기능**을 냈습니다.
-- **🏷 라벨 생성** — Judge 평균 4.6점이 스키마 오류 6건을 덮었습니다. 뒤이은 쮸토피아에서 AI 답변의 숫자를 도구 결과와 대조해 맞지 않으면 숨긴 것과 같은 이유로, 라벨도 점수보다 **실행 결과로** 걸렀어야 했습니다.
+- **🎯 → 🚀 직접 학습한 어댑터를 서빙까지** — LoRA 실습에서 학습한 어댑터를 강사 어댑터 대신 vLLM 실습에 넣어, 학습 → 채점 → 서빙을 제 결과물 하나로 이었습니다.
+- **🚀 멈춘 셀을 스크립트로** — 메모리 부족으로 실패한 노트북 셀을 별도 프로세스로 옮기고, 어댑터 헤더에서 rank와 hidden size를 읽어 베이스 모델을 고르게 했습니다.
+- **🎯 실행으로 채점할 수 있는 환경** — 평가용 test-suite DB 28개를 직접 받아 두어, 글자가 아니라 DB에서 실제로 돌린 결과로 정답을 가릴 수 있게 했습니다.
+- **🛍 📚 기준 앱의 빈자리와 버그** — 불러오기만 하던 CLIP을 검색에 연결하고, 장면 분석에 문단 번호를 넘기지 않던 버그와 빈 메시지에서 출력 하나만 돌려주던 버그를 고쳤습니다.
 
 </details>
 
 <details>
-<summary>📏 <b>재서 판단하기</b> — 남긴 것만 다시 잴 수 있었다</summary>
+<summary>🔎 <b>사실만 말하기</b> — 폴백이 실패를 가렸다</summary>
 <br/>
 
-- **7월** 앱 3종은 실행 화면 · DB · 결과물을 하나도 남기지 않아, 지금 그 앱이 어떻게 동작했는지 증명할 수 없습니다.
-- **8월**은 체크포인트 · 예측 파일 · 로그가 작업 사본에 남아, 두 달 뒤에도 **0.567 → 0.717을 다시 채점**할 수 있었습니다. 다만 그 파일들은 `.gitignore`에 걸려 제출본에서는 빠졌습니다.
-- **⚙ MLOps**에서는 loss만 기록해 정확도를 말할 수 없고, **🚀 vLLM**에서는 조건이 다른 두 측정을 나란히 놓고 배수를 계산했습니다. 숫자를 남기는 것만큼 **무엇을 어떤 조건으로 잰 숫자인지**를 함께 남겨야 했습니다.
+- **🛍 쇼핑** — 예산에 맞는 상품이 없을 때 거르기 전 목록을 돌려주면서 "N원 이하로 정리했다"고 말했습니다. 잡싸피에서 음성 분석 실패를 예시 피드백으로 가린 것과 같은 모양입니다.
+- **📚 스토리북 · 📄 문서 아카이브** — 한글 폰트가 없으면 Helvetica로, 라이브러리가 없으면 기능 끄기로 넘어갔습니다. 앱은 멈추지 않지만 **깨진 PDF와 조용히 사라진 기능**을 낼 수 있는 구조였습니다.
+- **🏷 라벨 생성** — Judge 평균 4.6점이 스키마 오류 6건을 덮었습니다. 뒤이은 쮸토피아에서 AI 답변의 숫자를 도구 결과와 대조해 맞지 않으면 숨긴 것과 같은 이유로, 라벨도 점수보다 **실행 결과로** 걸렀어야 했습니다.
 
 </details>
 
@@ -502,8 +509,18 @@ SELECT name FROM employees WHERE age > 30
 <summary>🧯 <b>안 됐을 때를 먼저</b> — 학습은 끝까지, 채점은 못 한 채로</summary>
 <br/>
 
-- **🧊 QLoRA** — 평가 DB 경로 오류를 고치지 않고 학습으로 넘어가, 가장 공을 들인 학습의 결과를 채점하지 못했습니다. 평가 경로를 학습 전에 베이스 모델로 먼저 통과시켰어야 했습니다.
-- **🚀 vLLM** — 메모리 부족으로 실패한 셀을 노트북 밖 별도 프로세스로 옮겨 끝까지 띄운 것은 잘한 일입니다. 다만 그 과정을 노트북에 남기지 않아 제출본에는 실패 출력만 보입니다.
+- **🧊 QLoRA** — 평가 DB 경로 오류를 고치지 않고 학습으로 넘어가, 가장 큰 모델(1.7B)의 학습 결과를 채점하지 못했습니다. 평가 경로를 학습 전에 베이스 모델로 먼저 통과시켰어야 했습니다.
+- **🚀 vLLM** — 실패한 셀을 별도 스크립트로 옮겨 띄웠지만 그 실행 결과(`run_lora.log`)를 남기지 않아, 제출본에는 스크립트와 실패 출력만 보입니다. 실패와 우회를 함께 기록했어야 했습니다.
+
+</details>
+
+<details>
+<summary>📏 <b>재서 판단하기</b> — 남긴 것만 다시 잴 수 있었다</summary>
+<br/>
+
+- **7월** 앱 3종은 실행 화면 · DB · 결과물을 남기지 않아 동작을 화면으로 보여 드릴 수 없었고, 그래서 7월은 코드로 설명했습니다.
+- **8월**은 체크포인트 · 예측 파일 · 로그가 작업 사본에 남아, 한 달 반 뒤에도 **0.567 → 0.717을 다시 채점**할 수 있었습니다. 다만 제출본에는 어댑터만 들어갔고, LoRA 예측 · 평가 DB · 로그는 빠졌습니다.
+- **⚙ MLOps**에서는 loss만 기록해 정확도를 말할 수 없고, **🚀 vLLM**에서는 조건이 다른 두 측정을 나란히 놓고 배수를 계산했습니다. 같은 날 두 번 잰 값도 10.7배와 12.5배로 달랐습니다. 숫자를 남기는 것만큼 **무엇을 어떤 조건으로 잰 숫자인지**를 함께 남겨야 했습니다.
 
 </details>
 
